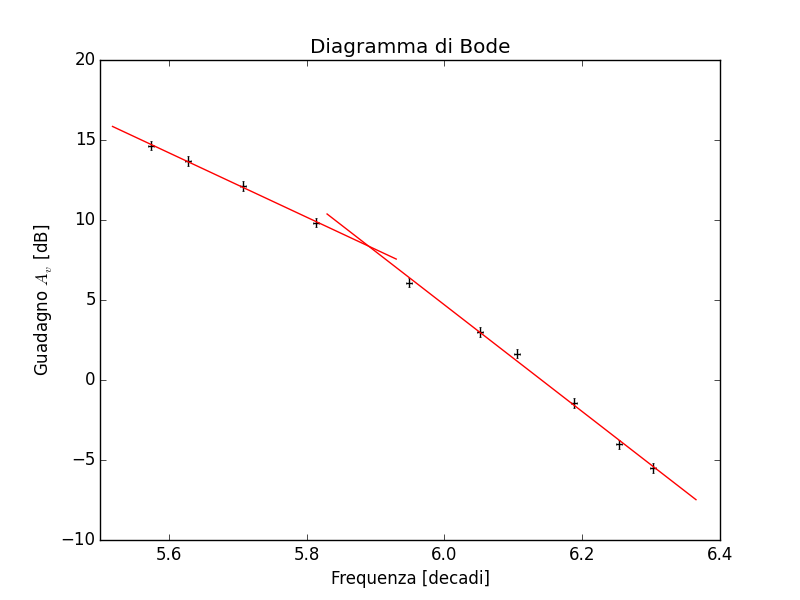
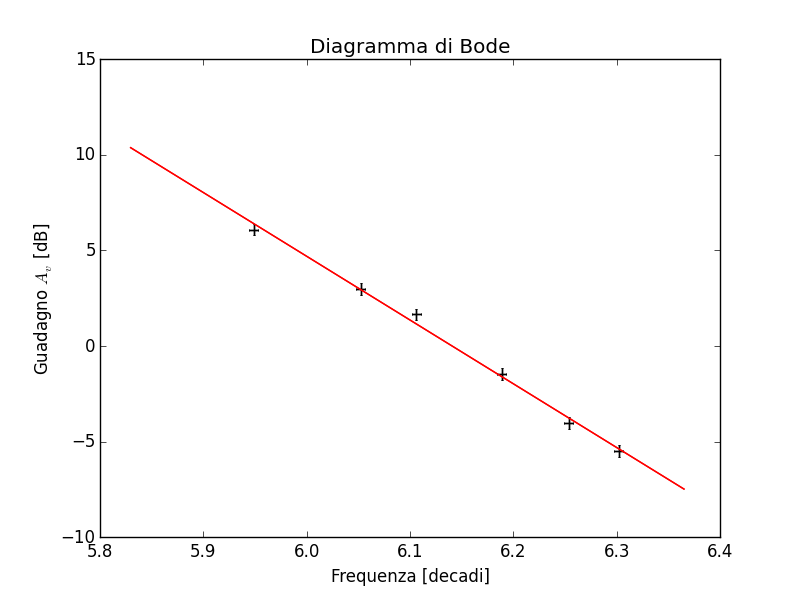
sto cazzo sottolio

diff --git a/Esercitazione6/Esercitazione6.py b/Esercitazione6/Esercitazione6.py
@@ -54,11 +54,11 @@ Ylab="Guadagno"
 
 tab=["Frequenza [Hz]","$V_{OUT}$ [$V$]"]
 xlimp=[100,110]
-#fit(dir,file,unit,f,p0,titolo,Xlab,Ylab,XYfun,table=True,tab=tab, Xscale="log",Yscale="log",xlimp=xlimp)
+fit(dir,file,unit,f,p0,titolo,Xlab,Ylab,XYfun,table=True,tab=tab, Xscale="log",Yscale="log",xlimp=xlimp)
 
 ###########################################################################
 
-#40 Db ??#
+#20 Db ??#
 
 file="30db"
 fig="rette"
@@ -80,11 +80,11 @@ Ylab="Guadagno $A_v$ [dB]"
 
 tab=["Frequenza [Hz]","$V_{OUT}$ [$V$]"]
 
-#fit(dir,file,unit,f,p0,titolo,Xlab,Ylab,XYfun,xlimp=[98,101],fig=fig)
+fit(dir,file,unit,f,p0,titolo,Xlab,Ylab,XYfun,xlimp=[98,101],fig=fig)
 
 ###########################################################################
 
-#20 Db ??#
+#20 Db !?!? - LA VENDETTA#
 
 file="20db"
 fig="rette"
@@ -132,10 +132,10 @@ Ylab="Guadagno [dB]"
 
 tab=["$V_{OUT}$ [$V$]","Freq. di taglio [Hz]"]
 
-#fit(dir,file,unit,f,p0,titolo,Xlab,Ylab,XYfun, table=True,tab=tab)
+fit(dir,file,unit,f,p0,titolo,Xlab,Ylab,XYfun, table=True,tab=tab)
 a = uncertainties.ufloat(-20.49 , 0.21)
 b = uncertainties.ufloat(128.8 , 0.9)
-#print ("Prodotto gain-bandwidth =", 10**(-b/a))
+print ("Prodotto gain-bandwidth =", 10**(-b/a))
 ###########################################################################
 
 #INTEGRATORE MODULO#
@@ -227,6 +227,6 @@ titolo="Diagramma di bode - derivatore"
 Xlab="Frequenza [Hz]"
 Ylab="Fase [rad]"
 
-fit(dir,file,unit,f,p0,titolo,Xlab,Ylab,XYfun, Xscale="log", fig=fig)
+#fit(dir,file,unit,f,p0,titolo,Xlab,Ylab,XYfun, Xscale="log", fig=fig)
 
 ###########################################################################
